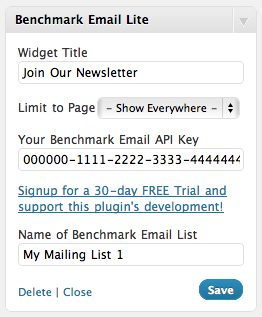
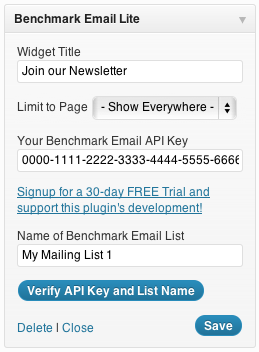
Adding new version 1.0.5 and new tag
git-svn-id: https://plugins.svn.wordpress.org/benchmark-email-lite/trunk@425637 b8457f37-d9ea-0310-8a92-e5e31aec5664

diff --git a/benchmark-email-lite.php b/benchmark-email-lite.php
@@ -3,10 +3,10 @@
 Plugin Name: Benchmark Email Lite
 Plugin URI: http://www.beautomated.com/benchmark-email-lite/
 Description: A plugin to create a Benchmark Email newsletter widget in WordPress.
-Version: 1.0.4
+Version: 1.0.5
 Author: beAutomated
 Author URI: http://www.beautomated.com/
-License: GPL2
+License: GPL
 */
 
 // Wordpress API Hooks
@@ -14,6 +14,7 @@ add_action('admin_init', array('benchmarkemaillite_widget', 'admin_js'));
 add_action('wp_ajax_bmewidget', array('benchmarkemaillite_widget', 'admin_ajax_callback'));
 add_action('widgets_init', 'benchmarkemaillite_register_widget');
 add_action('widgets_init', array('benchmarkemaillite_widget', 'widgetfrontendsubmission'));
+add_action('benchmarkemaillite_queue', array('benchmarkemaillite_widget', 'queue_upload'));
 add_filter('plugin_row_meta', array('benchmarkemaillite_widget', 'pluginlinks'), 10, 2);
 function benchmarkemaillite_register_widget() { register_widget('benchmarkemaillite_widget'); }
 
@@ -26,14 +27,13 @@ class benchmarkemaillite_widget extends WP_Widget {
 
 	// Variables Available Without Class Instantiation
 	private static $apiurl = 'http://api.benchmarkemail.com/1.0/';
-	private static $cachefile = 'subscription_cache.csv';
 	private static $linkaffiliate = 'http://www.benchmarkemail.com/?p=68907';
 	private static $linkcontact = 'http://www.beautomated.com/contact/';
 	private static $listid = false;
 	private static $client = false;
 	private static $token = false;
 	private static $response = array();
-	private static $version = '1.0.4';
+	private static $version = '1.0.5';
 
 	// Class Constructor
 	function benchmarkemaillite_widget() {
@@ -42,7 +42,6 @@ class benchmarkemaillite_widget extends WP_Widget {
 			'description' => __('Create a Benchmark Email newsletter widget in WordPress.')
 		);
 		$this->WP_Widget('benchmarkemaillite_widget', __('Benchmark Email Lite'), $widget_ops);
-		self::$cachefile = plugin_dir_path(__FILE__) . self::$cachefile;
 	}
 
 	/**********************
@@ -99,18 +98,18 @@ class benchmarkemaillite_widget extends WP_Widget {
 
 			// Get Widget Options for this Instance
 			$instance = get_option('widget_benchmarkemaillite_widget');
-			$key = stripslashes(sanitize_text_field(str_replace('"', '', $_POST['subscribe_key'])));
-			$instance = $instance[$key];
+			$widgetid = stripslashes(sanitize_text_field(str_replace('"', '', $_POST['subscribe_key'])));
+			$instance = $instance[$widgetid];
 			self::$token = $instance['token'];
 
 			// Sanitize Submission
-			$first = stripslashes(sanitize_text_field(str_replace('"', '', $_POST['subscribe_first'][$key])));
-			$last = stripslashes(sanitize_text_field(str_replace('"', '', $_POST['subscribe_last'][$key])));
-			$email = sanitize_email($_POST['subscribe_email'][$key]);
+			$first = stripslashes(sanitize_text_field(str_replace('"', '', $_POST['subscribe_first'][$widgetid])));
+			$last = stripslashes(sanitize_text_field(str_replace('"', '', $_POST['subscribe_last'][$widgetid])));
+			$email = sanitize_email($_POST['subscribe_email'][$widgetid]);
 
 			// Run Subscription
-			self::$response[$key] = self::processsubscription(
-				$instance['list'], $key, $email, $first, $last
+			self::$response[$widgetid] = self::processsubscription(
+				$instance['list'], $email, $first, $last
 			);
 		}
 	}
@@ -143,8 +142,7 @@ class benchmarkemaillite_widget extends WP_Widget {
 		<p>
 			<?php echo __('Your Benchmark Email API Key'); ?>
 			<input class="widefat" name="<?php echo $this->get_field_name('token'); ?>" type="text"
-				value="<?php echo esc_attr($instance['token']); ?>" id="<?php echo $this->get_field_name('token'); ?>"
-				onblur="benchmarkemaillite_check('<?php echo $this->get_field_name('token'); ?>', '<?php echo $this->get_field_name('list'); ?>', '<?php echo $this->get_field_name('token'); ?>')" /><br />
+				value="<?php echo esc_attr($instance['token']); ?>" id="<?php echo $this->get_field_name('token'); ?>" /><br />
 			<span id="<?php echo $this->get_field_name('token'); ?>-response"></span>
 		</p>
 		<p>
@@ -154,9 +152,12 @@ class benchmarkemaillite_widget extends WP_Widget {
 		<p>
 			<?php echo __('Name of Benchmark Email List'); ?>
 			<input class="widefat" name="<?php echo $this->get_field_name('list'); ?>" type="text"
-				value="<?php echo esc_attr($instance['list']); ?>" id="<?php echo $this->get_field_name('list'); ?>"
-				onblur="benchmarkemaillite_check('<?php echo $this->get_field_name('list'); ?>', '<?php echo $this->get_field_name('list'); ?>', '<?php echo $this->get_field_name('token'); ?>')" /><br />
+				value="<?php echo esc_attr($instance['list']); ?>" id="<?php echo $this->get_field_name('list'); ?>" /><br />
 			<span id="<?php echo $this->get_field_name('list'); ?>-response"></span>
+		</p>
+		<p>
+			<input type="button" class="button-primary" value="Verify API Key and List Name"
+				onclick="benchmarkemaillite_check('<?php echo $this->get_field_name('token'); ?>', '<?php echo $this->get_field_name('list'); ?>', '<?php echo $this->get_field_name('token'); ?>');benchmarkemaillite_check('<?php echo $this->get_field_name('list'); ?>', '<?php echo $this->get_field_name('list'); ?>', '<?php echo $this->get_field_name('token'); ?>');" />
 		</p>
 <?php
 	}
@@ -177,10 +178,14 @@ class benchmarkemaillite_widget extends WP_Widget {
 		// Widget Variables
 		global $post;
 		extract($args);
-		$key = explode('-', $widget_id); $key = $key[1];
-		$before_widget .= '<div id="benchmark-email-lite-' . $key . '" class="benchmark-email-lite">';
+		$widgetid = explode('-', $widget_id);
+		$widgetid = $widgetid[1];
+		$before_widget .= '<div id="benchmark-email-lite-' . $widgetid . '" class="benchmark-email-lite">';
 		$after_widget = '</div>' . $after_widget;
-		$printresponse = ''; $first = ''; $last = ''; $email = '';
+		$printresponse = '';
+		$first = '';
+		$last = '';
+		$email = '';
 
 		// Exclude from Pages/Posts Per Setting
 		if ($instance['page'] && $instance['page'] != $post->ID) { return false; }
@@ -190,16 +195,16 @@ class benchmarkemaillite_widget extends WP_Widget {
 		if (!empty($title)) { echo $before_title . $title . $after_title; }
 
 		// Display Any Submission Response
-		if (is_array(self::$response) && array_key_exists($key, self::$response) && is_array(self::$response[$key])) {
-			$printresponse = (self::$response[$key][0])
-				? '<p class="successmsg">' . self::$response[$key][1] . '</p>'
-				: '<p class="errormsg">' . self::$response[$key][1] . '</p>';
+		if (is_array(self::$response) && array_key_exists($widgetid, self::$response) && is_array(self::$response[$widgetid])) {
+			$printresponse = (self::$response[$widgetid][0])
+				? '<p class="successmsg">' . self::$response[$widgetid][1] . '</p>'
+				: '<p class="errormsg">' . self::$response[$widgetid][1] . '</p>';
 
 			// If Submission Errors, Sanitize Submission for Form Prepopulation
-			if (!self::$response[$key][0]) {
-				$first = stripslashes(sanitize_text_field(str_replace('"', '', $_POST['subscribe_first'][$key])));
-				$last = stripslashes(sanitize_text_field(str_replace('"', '', $_POST['subscribe_last'][$key])));
-				$email = stripslashes(sanitize_text_field(str_replace('"', '', $_POST['subscribe_email'][$key])));
+			if (!self::$response[$widgetid][0]) {
+				$first = stripslashes(sanitize_text_field(str_replace('"', '', $_POST['subscribe_first'][$widgetid])));
+				$last = stripslashes(sanitize_text_field(str_replace('"', '', $_POST['subscribe_last'][$widgetid])));
+				$email = stripslashes(sanitize_text_field(str_replace('"', '', $_POST['subscribe_email'][$widgetid])));
 
 			// If Submission Without Errors, Output Response Without Form
 			} else {
@@ -218,29 +223,29 @@ class benchmarkemaillite_widget extends WP_Widget {
 
 		// Output Widget Subscription Form
 		echo $before_widget . '
-<form method="post" action="#benchmark-email-lite-' . $key . '">
+<form method="post" action="#benchmark-email-lite-' . $widgetid . '">
 <ul style="list-style-type:none;margin:0;">
 	<li>
-		<input type="hidden" name="formid" value="benchmark-email-lite-' . $key . '" />
-		<input type="hidden" name="subscribe_key" value="' . $key . '" />
-		<label for="subscribe_first-' . $key . '" style="display:block;">' . __('First Name') . '</label>
-		<input type="text" id="subscribe_first-' . $key . '" name="subscribe_first[' . $key . ']" value="' . $first . '" />
+		<input type="hidden" name="formid" value="benchmark-email-lite-' . $widgetid . '" />
+		<input type="hidden" name="subscribe_key" value="' . $widgetid . '" />
+		<label for="subscribe_first-' . $widgetid . '" style="display:block;">' . __('First Name') . '</label>
+		<input type="text" id="subscribe_first-' . $widgetid . '" name="subscribe_first[' . $widgetid . ']" value="' . $first . '" />
 	</li>
 	<li>
-		<label for="subscribe_last-' . $key . '" style="display:block;">' . __('Last Name') . '</label>
-		<input type="text" id="subscribe_last-' . $key . '" name="subscribe_last[' . $key . ']" value="' . $last . '" />
+		<label for="subscribe_last-' . $widgetid . '" style="display:block;">' . __('Last Name') . '</label>
+		<input type="text" id="subscribe_last-' . $widgetid . '" name="subscribe_last[' . $widgetid . ']" value="' . $last . '" />
 	</li>
 	<li>
-		<label for="subscribe_email-' . $key . '" style="display:block;">' . __('Email Address (required)') . '</label>
-		<input type="text" id="subscribe_email-' . $key . '" name="subscribe_email[' . $key . ']" value="' . $email . '" />
+		<label for="subscribe_email-' . $widgetid . '" style="display:block;">' . __('Email Address (required)') . '</label>
+		<input type="text" id="subscribe_email-' . $widgetid . '" name="subscribe_email[' . $widgetid . ']" value="' . $email . '" />
 	</li>
-	<li><input type="submit" value="' . __('Subscribe') . '" onclick="document.getElementById(\'subscribe_spinner-' . $key . '\').style.display=\'block\';this.form.style.display=\'none\';" /></li>
+	<li><input type="submit" value="' . __('Subscribe') . '" onclick="document.getElementById(\'subscribe_spinner-' . $widgetid . '\').style.display=\'block\';this.form.style.display=\'none\';" /></li>
 	<li>' . $printresponse . '</li>
 </ul>
 </form>
-<p id="subscribe_spinner-' . $key . '" style="display:none;text-align:center;">
+<p id="subscribe_spinner-' . $widgetid . '" style="display:none;text-align:center;">
 	<br /><img alt="Loading" src="' . plugins_url() . '/benchmark-email-lite/loading.gif" />
-	<br />Loading - Please Wait
+	<br />' . __('Loading - Please Wait') . '
 </p>
 ' . $after_widget;
 	}
@@ -250,7 +255,7 @@ class benchmarkemaillite_widget extends WP_Widget {
 	 **********/
 
 	// Main Subscription Logic
-	function processsubscription($listname, $key, $email, $first, $last) {
+	function processsubscription($listname, $email, $first, $last) {
 		$response = '';
 
 		// Check for Missing or Invalid Email Address
@@ -266,48 +271,44 @@ class benchmarkemaillite_widget extends WP_Widget {
 			$status = self::bme_list($listname);
 			if ($status !== true) { $response = $status; }
 
-			// Try to Flush Cache and Run Live Subscription
-			if (!$response) {
-				self::cache_upload($key);
-				$response = self::bme_subscribe($email, $first, $last, $key);
-			}
+			// Try to Run Live Subscription
+			if (!$response) { $response = self::bme_subscribe($email, $first, $last); }
 
-			// Handle Failover to Cache File
+			// Failover to Queue
 			if (!$response[0]) {
-				$response = self::cache_subscription($listname, $email, $first, $last, $key);
+				$response = self::queue_subscription($listname, $email, $first, $last);
 			}
 		}
 		return $response;
 	}
 
-	// Cache Subscription Failover To File
-	function cache_subscription($list, $email, $first, $last, $key) {
-		if ($fw = fopen(self::$cachefile, 'a')) {
-			$string = "\"$list\",\"$email\",\"$first\",\"$last\",\"" . self::$token . "\"\n";
-			if (fwrite($fw, $string)) {
-				fclose($fw);
-				return array(true, __('Successfully queued subscription.'));
-			}
+	// Queue Subscription
+	function queue_subscription($list, $email, $first, $last) {
+		$queue = get_option('benchmarkemaillite_queue');
+		$queue .= "$list||$email||$first||$last||" . self::$token . "\n";
+		update_option('benchmarkemaillite_queue', $queue);
+
+		// Load Queue File into WP Cron
+		if (!wp_next_scheduled('benchmarkemaillite_queue')) {
+			wp_schedule_single_event(time()+300, 'benchmarkemaillite_queue');
 		}
-		return array(false, __('Error: Unable to queue subscription. Check plugin folder write permissions.'));
+		return array(true, __('Successfully queued subscription.'));
 	}
 
-	// Process Subscription Cache File, If Exists
-	function cache_upload($key) {
-		if (!file_exists(self::$cachefile)) { return false; }
-		if (($fr = fopen(self::$cachefile, 'r')) !== false) {
+	// Process Subscription Queue Cron Request
+	function queue_upload() {
 
-			// Load Subscription Cache Into Memory And Delete Cache File
-			$data = array();
-			while (($row = fgetcsv($fr)) !== false) { $data[] = $row; }
-			fclose($fr);
-			unlink(self::$cachefile);
+		// Continue Only If Queue Exists
+		if (!$queue = get_option('benchmarkemaillite_queue')) { return false; }
+		delete_option('benchmarkemaillite_queue');
 
-			// Attempt to Subscribe Each Cached Record, Or Fail Back To Cache File
-			foreach ($data as $row) {
-				self::$token = $row[4];
-				self::processsubscription($row[0], $key, $row[1], $row[2], $row[3]);
-			}
+		// Attempt to Subscribe Each Queued Record, Or Fail Back To Queue
+		$queue = explode("\n", $queue);
+		foreach ($queue as $row) {
+			$row = explode('||', $row);
+			if (sizeof($row) < 5) { continue; }
+			self::$token = $row[4];
+			self::processsubscription($row[0], $row[1], $row[2], $row[3]);
 		}
 	}
 
@@ -351,7 +352,7 @@ class benchmarkemaillite_widget extends WP_Widget {
 	}
 
 	// Add or Update Subscriber
-	function bme_subscribe($email, $first, $last, $key) {
+	function bme_subscribe($email, $first, $last) {
 
 		// Check for Subscription Preexistance
 		$contactID = self::bme_find($email);
